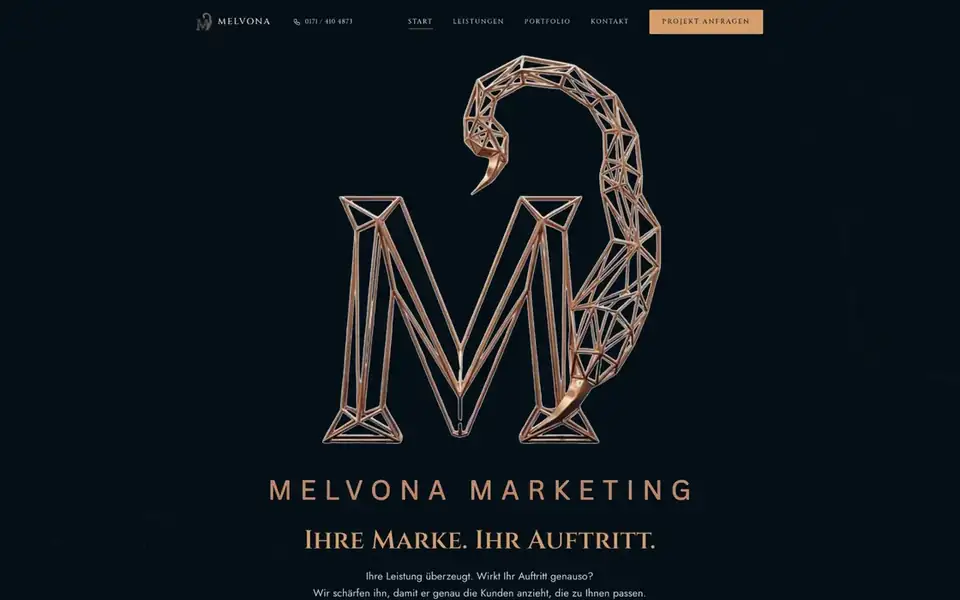
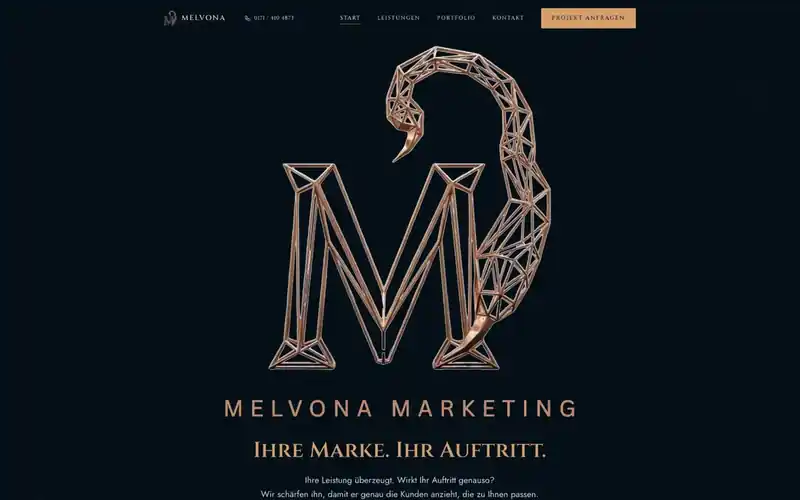
Screenshots kleiner komprimiert
Claude-Session: https://claude.ai/code/session_01VnPBkK3fe7dNBX174RoxzT

diff --git a/landingpage-website/website.html b/landingpage-website/website.html
@@ -95,11 +95,11 @@
       <p class="lede lp-intro">Unser eigener Auftritt zeigt, worauf wir Wert legen: ein klares Bild, eine ruhige Linie und ein Design, das von der Visitenkarte bis zur Website zusammenpasst.</p>
       <div class="lp-mockups">
         <figure class="lp-mockup lp-mockup-desktop">
-          <div class="lp-geraet lp-browser"><span class="lp-browser-leiste" aria-hidden="true"><i></i><i></i><i></i><b>melvona.de</b></span><img src="images/website-melvona-desktop.webp" width="960" height="600" loading="lazy" alt="Startseite von melvona.de am Rechner"></div>
+          <div class="lp-geraet lp-browser"><span class="lp-browser-leiste" aria-hidden="true"><i></i><i></i><i></i><b>melvona.de</b></span><img src="images/website-melvona-desktop.webp" width="800" height="500" loading="lazy" alt="Startseite von melvona.de am Rechner"></div>
           <figcaption>melvona.de am Rechner</figcaption>
         </figure>
         <figure class="lp-mockup lp-mockup-handy">
-          <div class="lp-geraet lp-handy"><img src="images/website-melvona-handy.webp" width="405" height="720" loading="lazy" alt="Startseite von melvona.de auf dem Handy"></div>
+          <div class="lp-geraet lp-handy"><img src="images/website-melvona-handy.webp" width="338" height="600" loading="lazy" alt="Startseite von melvona.de auf dem Handy"></div>
           <figcaption>… und auf dem Handy</figcaption>
         </figure>
       </div>
